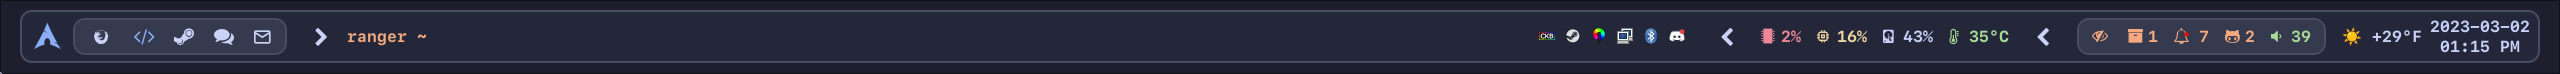
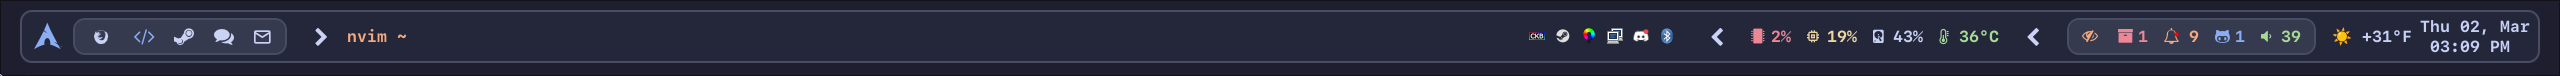
hyprland waybar tweaks and screenshots

diff --git a/dots/linux/hyprland/home/.config/waybar/style.css b/dots/linux/hyprland/home/.config/waybar/style.css
@@ -109,7 +109,7 @@ window.DP-1 #workspaces {
 
 #custom-pipewire,
 #custom-notification,
-#custom-pacman,
+#custom-updates,
 #custom-github,
 #custom-weather,
 #idle_inhibitor,
@@ -142,6 +142,14 @@ window.DP-1 #workspaces {
 
 #temperature {
   color: @green;
+}
+
+#custom-github {
+  color: @blue;
+}
+
+#custom-updates {
+  color: @red;
 }
 
 #network.disconnected {

diff --git a/dots/linux/hyprland/README.md b/dots/linux/hyprland/README.md
@@ -38,16 +38,17 @@
 ### Standard monitor
 
 ![linux-hyprland-tiling](../../../assets/linux/hyprland/tiling.png)
-![linux-hyprland-tiling](../../../assets/linux/hyprland/nvim.png)
-![linux-hyprland-tiling](../../../assets/linux/hyprland/waybar.png)
-![linux-hyprland-tiling](../../../assets/linux/hyprland/drun.png)
-![linux-hyprland-tiling](../../../assets/linux/hyprland/spotlight.png)
-![linux-hyprland-tiling](../../../assets/linux/hyprland/appmenu.png)
-![linux-hyprland-tiling](../../../assets/linux/hyprland/spotify.png)
-![linux-hyprland-tiling](../../../assets/linux/hyprland/discord.png)
+![linux-hyprland-nvim](../../../assets/linux/hyprland/nvim.png)
+![linux-hyprland-notifications](../../../assets/linux/hyprland/notifications.png)
+![linux-hyprland-waybar](../../../assets/linux/hyprland/waybar.png)
+![linux-hyprland-drun](../../../assets/linux/hyprland/drun.png)
+![linux-hyprland-spotlight](../../../assets/linux/hyprland/spotlight.png)
+![linux-hyprland-appmenu](../../../assets/linux/hyprland/appmenu.png)
+![linux-hyprland-spotify](../../../assets/linux/hyprland/spotify.png)
+![linux-hyprland-discord](../../../assets/linux/hyprland/discord.png)
 ![linux-hyprland-wlogout](../../../assets/linux/hyprland/wlogout.png)
 
 ### Ultrawide monitor
 
-![linux-hyprland-tiling](../../../assets/linux/hyprland/tiling-wide.png)
-![linux-hyprland-tiling](../../../assets/linux/hyprland/nvim-wide.png)
+![linux-hyprland-tiling-wide](../../../assets/linux/hyprland/tiling-wide.png)
+![linux-hyprland-nvim-wide](../../../assets/linux/hyprland/nvim-wide.png)
